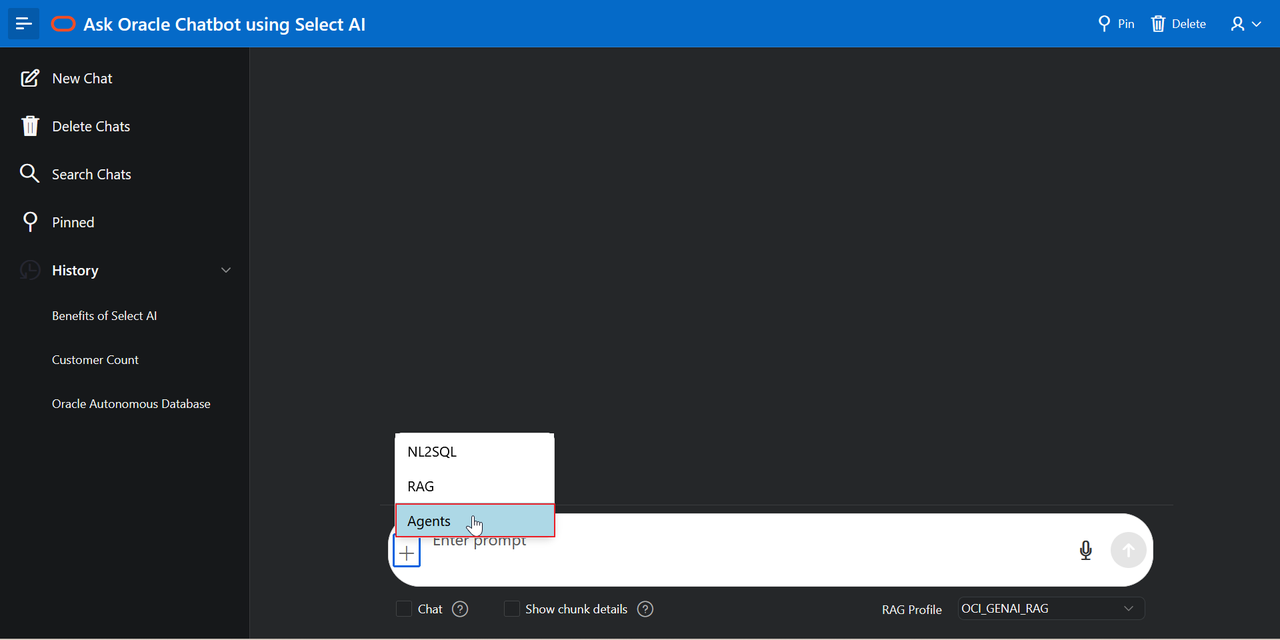
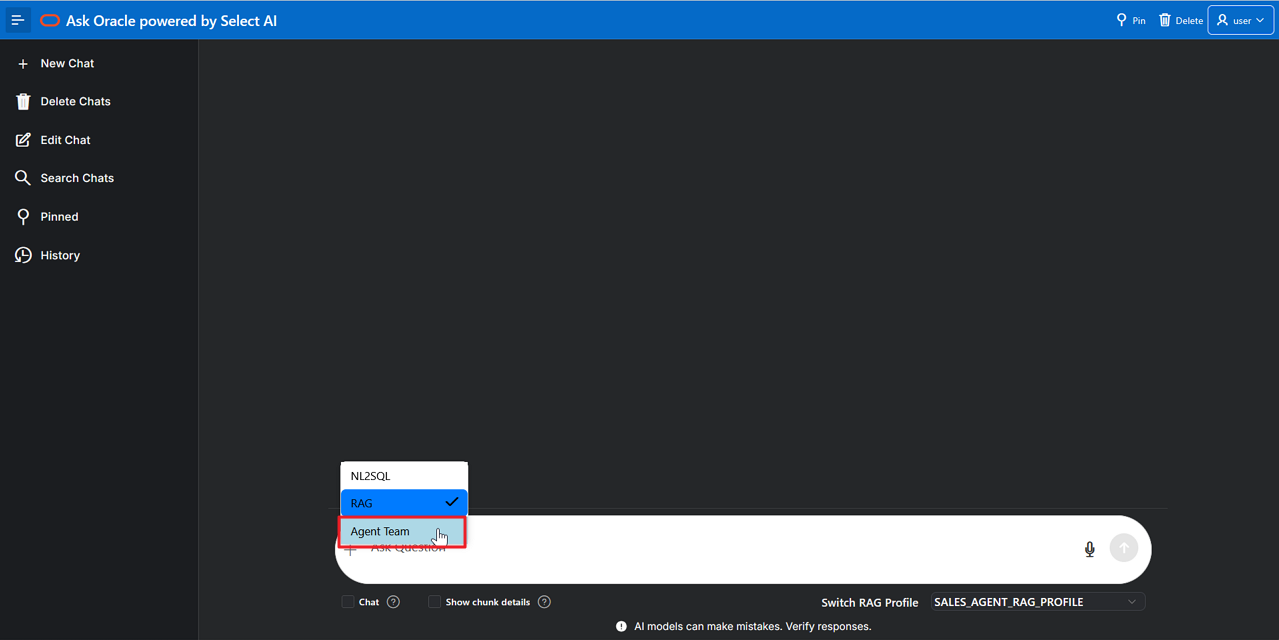
feedback from users fixed

diff --git a/shared/agentic-select-ai/use-ask-oracle-demo-app/use-ask-oracle-demo-app.md b/shared/agentic-select-ai/use-ask-oracle-demo-app/use-ask-oracle-demo-app.md
@@ -31,7 +31,7 @@ To create NL2SQL profile:
     
   BEGIN
     DBMS_CLOUD_AI.CREATE_PROFILE(
-        profile_name >'OCI_GENAI',
+        profile_name =>'OCI_GENAI',
         attributes   =>'{"provider": "oci",
         "credential_name": "AI_CREDENTIAL",
         "conversation": "true",
@@ -73,7 +73,7 @@ To create NL2SQL profile:
 
 For example, pick the agent team **`RETURN_AGENCY_TEAM`** and click the **X** in the upper right to close the **Settings** screen.
 
-5. In the **Enter prompt** text area, click the **+** and select **Agents**. 
+5. In the **Enter prompt** text area, click the **+** and select **Agent Team**. 
       ![Select Agents at the Enter prompt text area](./images/ask-oracle-enter-prompt-agents.png =70%x*)
 
     Notice that the bottom right indicates that agent team is `RETURN_AGENCY_TEAM`.

diff --git a/shared/agentic-select-ai/rag-tool-for-alternatives/introduce-rag-tool-for-product-recommendation.md b/shared/agentic-select-ai/rag-tool-for-alternatives/introduce-rag-tool-for-product-recommendation.md
@@ -60,7 +60,6 @@ Define an AI Profile that has your LLM and database objects and is ready to use 
 begin
 DBMS_CLOUD.drop_credential(credential_name => 'AI_CREDENTIAL');
 EXCEPTION WHEN OTHERS THEN NULL; END;
-end;
 /
 BEGIN
 DBMS_CLOUD.create_credential(
